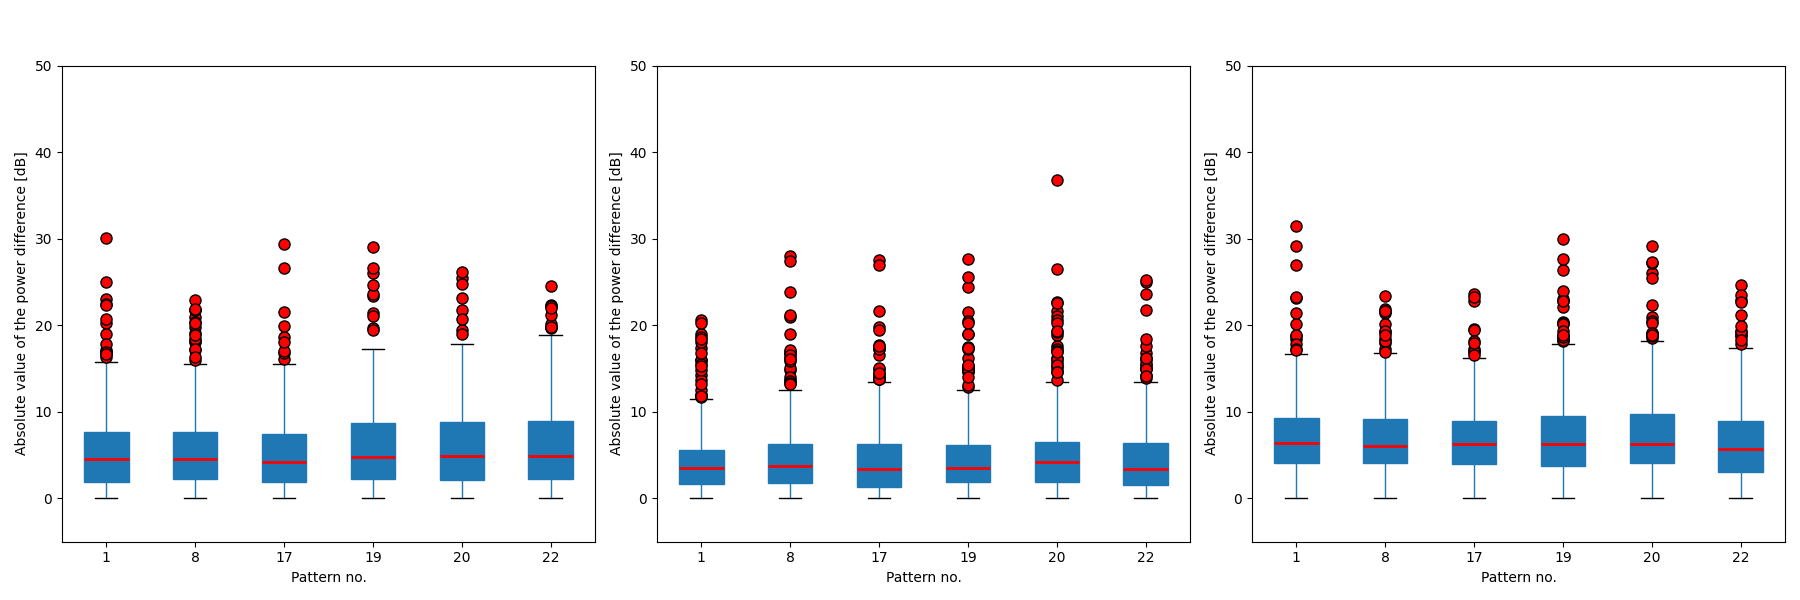
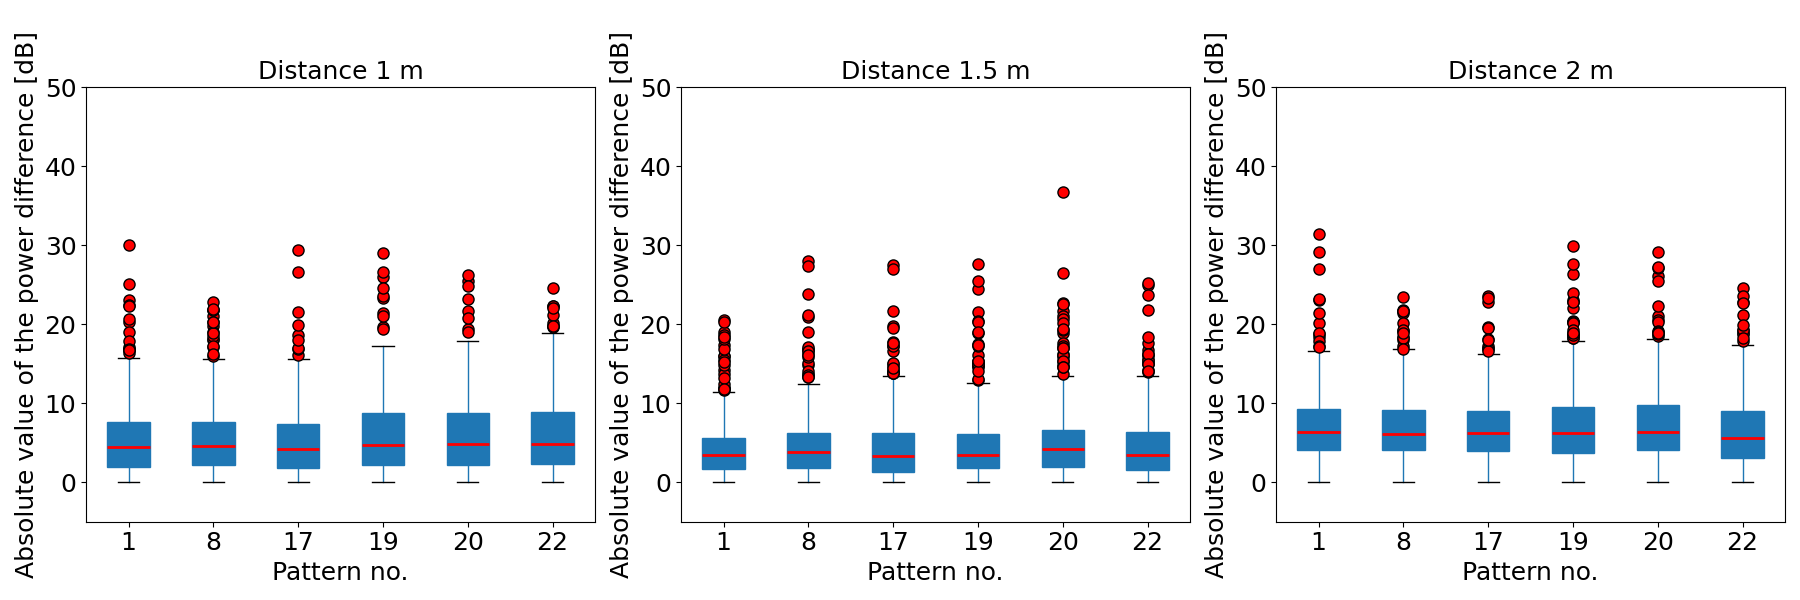
poprawione pudełka

diff --git a/Box_Plot/box_plot_merge.py b/Box_Plot/box_plot_merge.py
@@ -6,6 +6,7 @@ import matplotlib.pyplot as plt
 # Funkcja do tworzenia subplotów wykresów pudełkowych
 def tworz_subploty_wykresow(plik_csv_lista, wybrane_patterny, folder_wynikowy):
     # Podziel pliki na grupy po 3
+    title = ["Distance 1 m", "Distance 1.5 m", "Distance 2 m"]
     grupy = [plik_csv_lista[i : i + 3] for i in range(0, len(plik_csv_lista), 3)]
 
     # Zmienna do przechowywania zakresu Y
@@ -55,10 +56,16 @@ def tworz_subploty_wykresow(plik_csv_lista, wybrane_patterny, folder_wynikowy):
             # Ustaw stałą skalę osi Y
             ax.set_ylim(-5, 50)
 
-            # Dostosowanie tytułów i etykiet
-            ax.set_title("")
-            ax.set_xlabel("Pattern no.")
-            ax.set_ylabel("Absolute value of the power difference [dB]")
+            # Dostosowanie czcionek
+            ax.tick_params(axis="x", labelsize=18)  # Czcionka dla osi X
+            ax.tick_params(axis="y", labelsize=18)  # Czcionka dla osi Y
+
+            # Dostosowanie {tytułów i etykiet
+            ax.set_title(f"{title[i]}", fontsize=18)
+            ax.set_xlabel("Pattern no.", fontsize=18)  # Czcionka dla etykiety osi X
+            ax.set_ylabel(
+                "Absolute value of the power difference [dB]", fontsize=18
+            )  # Czcionka dla etykiety osi Y
             plt.suptitle(f"", fontsize=16)
 
         # Przygotowanie ścieżki zapisu
